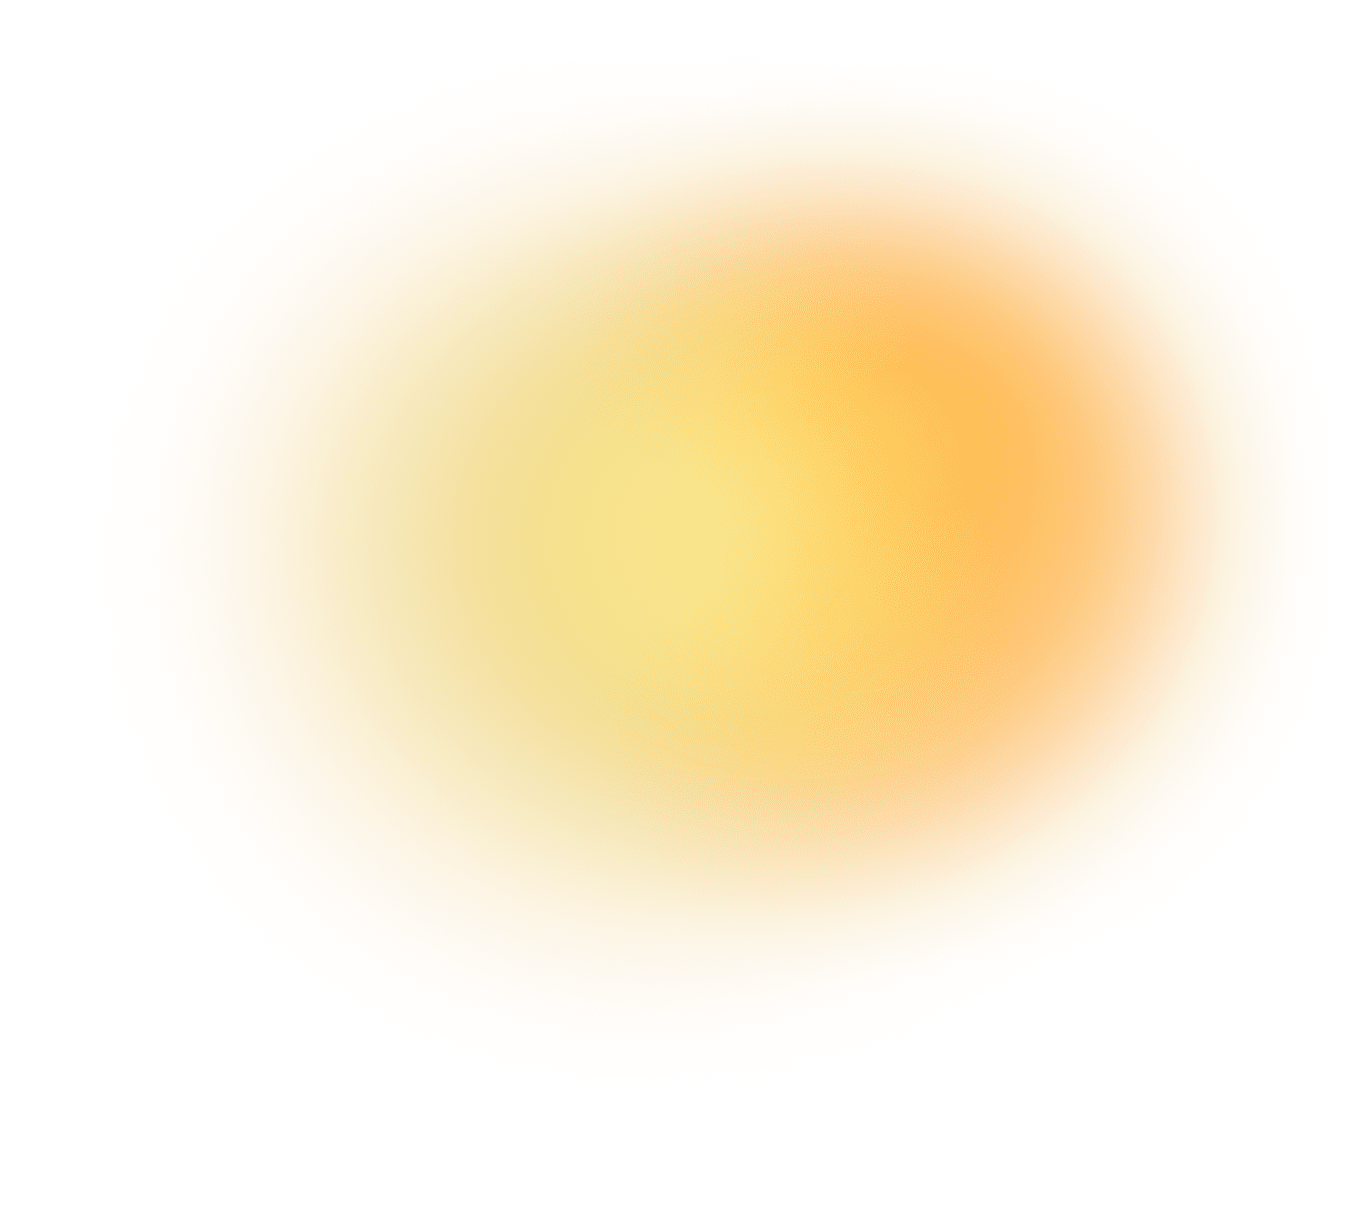
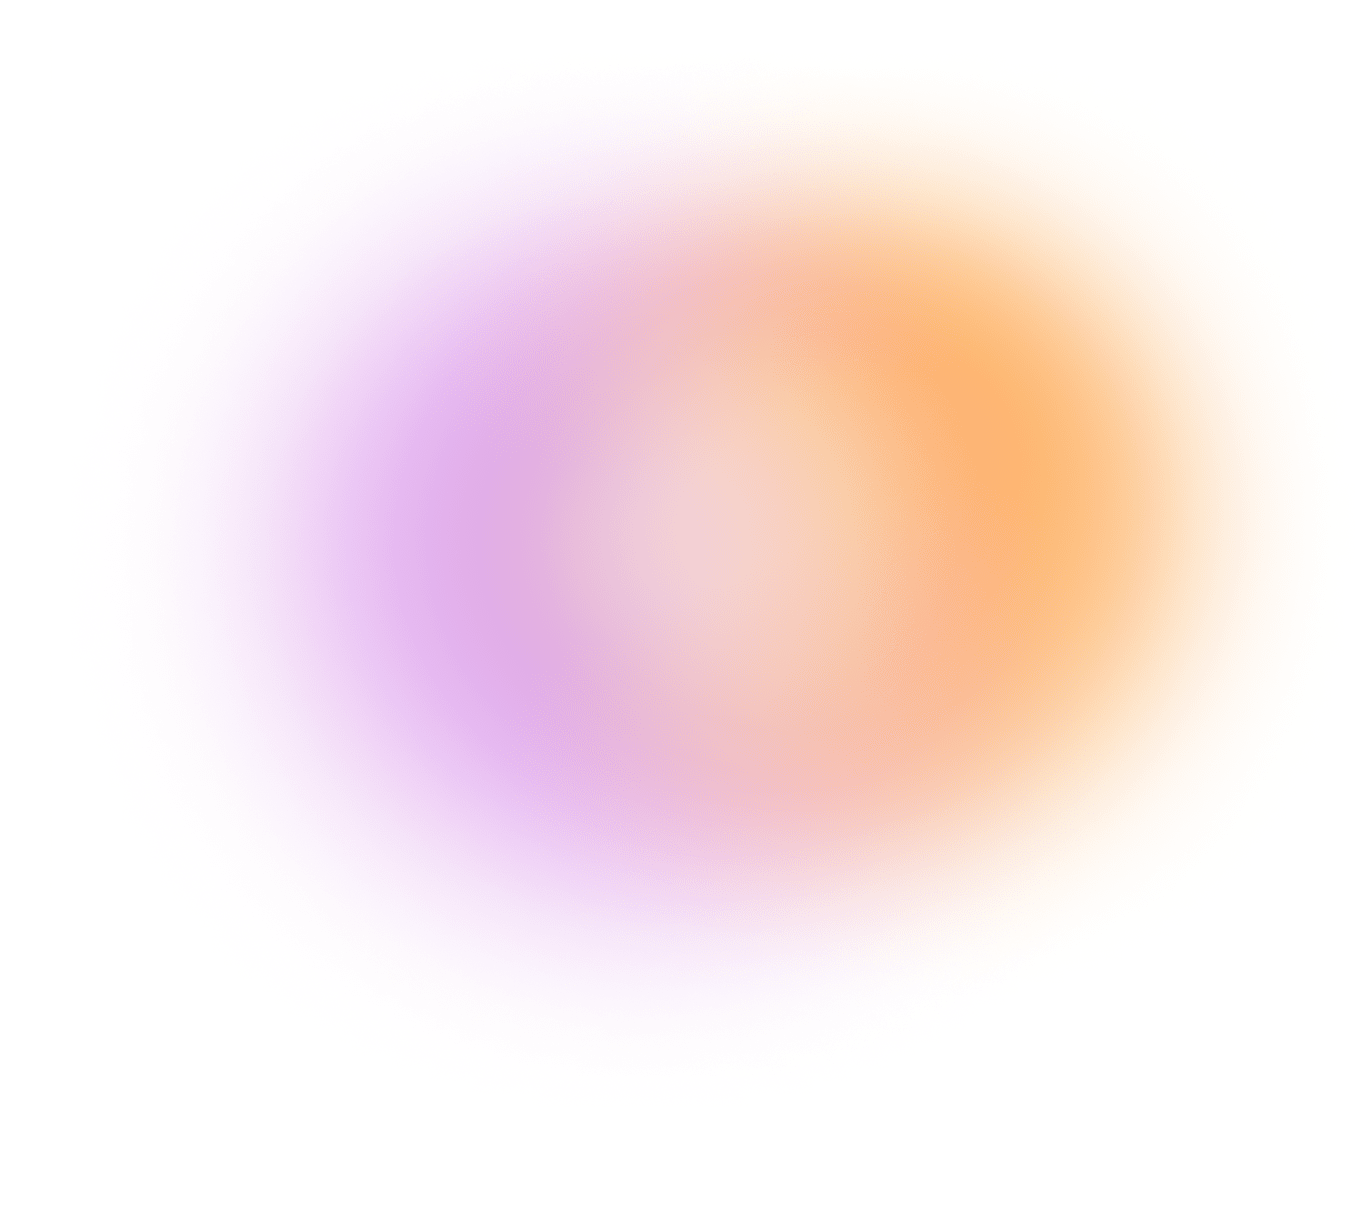
Added new theme and level 8. Fixed experience points and max level

Changed region(s): [[0.1852, 0.1543, 0.7715, 0.7717]]

diff --git a/src/pages/game/themes.js b/src/pages/game/themes.js
@@ -256,6 +256,43 @@ export const levelSubThemes = [
     shipRoughness: 0.43,
 
     glareImg: 'glare-color-hawk-7.png'
+  },
+
+  {
+    level: 8,
+    colors: {
+      buttonText: '#FEFB4F',
+      experienceBar: {
+        active: {
+          background1: '#FEFB4F',
+          background2: '#FEB600',
+          boxShadow: '#F9D523'
+        },
+        empty: {
+          background1: [254, 242, 79],
+          background2: [150, 103, 56],
+          boxShadow: '#F9D523'
+        }
+      },
+
+      shipBase: '#FFFFFF',
+      wing: '#FFFFFF',
+      wingAccent: '#FFFFFF',
+      emission: '#FAFF94',
+      fog: '#E7BAA3',
+      wave: '#E7CC44',
+      directionalLight: '#E7DCA3',
+      accentEmission: '#F6DC5D',
+      shipTrailEmission: '#FFE460'
+    },
+
+    ambientLightIntensity: 1.5,
+    directionalLight1Intensity: 2,
+    directionalLight2Intensity: 0.5,
+    shipMetalness: 0,
+    shipRoughness: 0.43,
+
+    glareImg: 'glare-color-hawk-8.png'
   }
 ];
 
@@ -306,8 +343,9 @@ export const themes = [
     shipMetalness: 0.98,
     shipRoughness: 0.6,
 
-    glareImg: 'glare-color-gold-2.png'
+    glareImg: 'glare-color-gold.png'
   },
+  
   {
     id: 'ghost',
     name: 'Ghost',

diff --git a/src/store/reducers/gameSlice.js b/src/store/reducers/gameSlice.js
@@ -485,10 +485,10 @@ export const proceedTap = createAsyncThunk(
 
     const newPoints = state.game.experiencePoints + 1;
 
-    if (newPoints >= level.tapping_to) {
+    if (newPoints > level.tapping_to) {
       /** If user reached new level */
       const newLevel = state.game.experienceLevel + 1;
-      if (newLevel >= state.game.maxLevel) return;
+      if (newLevel > state.game.maxLevel) return;
 
       dispatch(setExperienceLevel(newLevel));
       dispatch(setReachedNewLevel(true)); // Update the new level trigger
